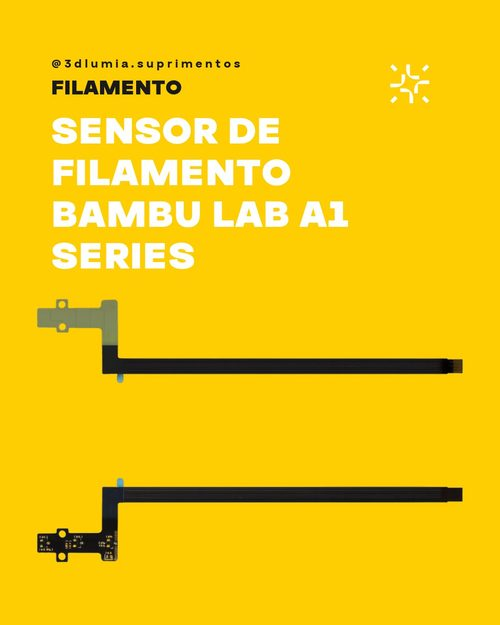
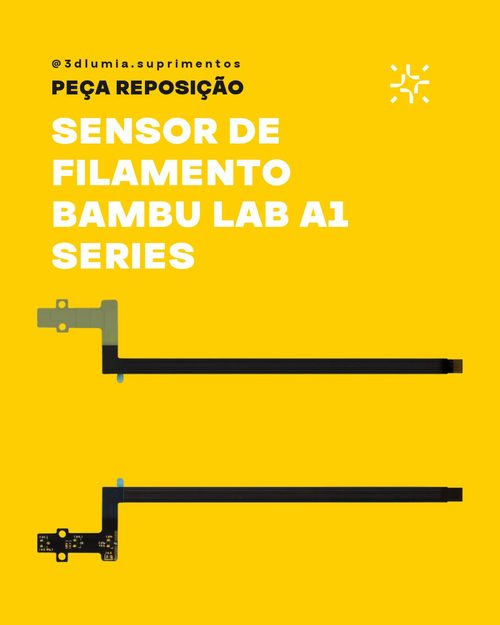
Capa dos 2 acessorios novos e categoria certa nas pecas
1250-86 e 1252-86 tinham arte pronta em "0 - ANUNCIOS ATIVOS", subpasta onde o
espelho fotos_src nao desce: entravam na vitrine sem foto. Caminho na mao no
FONTE_MANUAL, como ja era feito com as impressoras.

categoria() testava FILAMENTO antes de PECA, entao "HUB/SENSOR DE FILAMENTO"
saia com o selo FILAMENTO (5 SKUs, medido contra os 209 ativos; nenhum filamento
de verdade muda). O kit de 24 ferramentas precisou de limpar(frac=0,02): o
estojo e tao maior que as limas que o padrao apagava 22 das 24 pecas do card.

Changed region(s): [[0.12, 0.1216, 0.51, 0.1824]]

diff --git a/catalogo.html b/catalogo.html
@@ -1019,7 +1019,7 @@ footer a{color:var(--ink);font-weight:800}
  data-marca="Bambu Lab" data-tipo="Ferramentas e Acessórios" data-aplic="Acabamento"
  data-cor="" data-disp="Disponivel" data-ordem="74"
  data-sku="1250-86" data-nome="HUB DE FILAMENTO PARA AMS LITE PARA BAMBU LAB X1/P1 SERIES" data-preco="0.00">
-  <div class="foto"><div class="sem-foto">sem foto</div></div>
+  <div class="foto"><img src="fotos/1250-86.jpg" alt="HUB DE FILAMENTO PARA AMS LITE PARA BAMBU LAB X1/P1 SERIES" loading="lazy"></div>
   <div class="info"><h2>HUB DE FILAMENTO PARA AMS LITE PARA BAMBU LAB X1/P1 SERIES</h2>
   
   <p class="sku">1250-86</p>
@@ -1115,7 +1115,7 @@ footer a{color:var(--ink);font-weight:800}
  data-marca="Outras" data-tipo="Ferramentas e Acessórios" data-aplic="Acabamento"
  data-cor="" data-disp="Disponivel" data-ordem="82"
  data-sku="1252-86" data-nome="KIT 24 FERRAMENTAS PARA IMPRESSÃO 3D" data-preco="0.00">
-  <div class="foto"><div class="sem-foto">sem foto</div></div>
+  <div class="foto"><img src="fotos/1252-86.jpg" alt="KIT 24 FERRAMENTAS PARA IMPRESSÃO 3D" loading="lazy"></div>
   <div class="info"><h2>KIT 24 FERRAMENTAS PARA IMPRESSÃO 3D</h2>
   
   <p class="sku">1252-86</p>

diff --git a/index.html b/index.html
@@ -1019,7 +1019,7 @@ footer a{color:var(--ink);font-weight:800}
  data-marca="Bambu Lab" data-tipo="Ferramentas e Acessórios" data-aplic="Acabamento"
  data-cor="" data-disp="Disponivel" data-ordem="74"
  data-sku="1250-86" data-nome="HUB DE FILAMENTO PARA AMS LITE PARA BAMBU LAB X1/P1 SERIES" data-preco="0.00">
-  <div class="foto"><div class="sem-foto">sem foto</div></div>
+  <div class="foto"><img src="fotos/1250-86.jpg" alt="HUB DE FILAMENTO PARA AMS LITE PARA BAMBU LAB X1/P1 SERIES" loading="lazy"></div>
   <div class="info"><h2>HUB DE FILAMENTO PARA AMS LITE PARA BAMBU LAB X1/P1 SERIES</h2>
   
   <p class="sku">1250-86</p>
@@ -1115,7 +1115,7 @@ footer a{color:var(--ink);font-weight:800}
  data-marca="Outras" data-tipo="Ferramentas e Acessórios" data-aplic="Acabamento"
  data-cor="" data-disp="Disponivel" data-ordem="82"
  data-sku="1252-86" data-nome="KIT 24 FERRAMENTAS PARA IMPRESSÃO 3D" data-preco="0.00">
-  <div class="foto"><div class="sem-foto">sem foto</div></div>
+  <div class="foto"><img src="fotos/1252-86.jpg" alt="KIT 24 FERRAMENTAS PARA IMPRESSÃO 3D" loading="lazy"></div>
   <div class="info"><h2>KIT 24 FERRAMENTAS PARA IMPRESSÃO 3D</h2>
   
   <p class="sku">1252-86</p>
